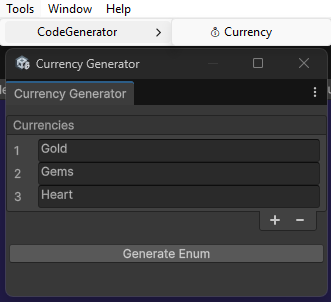
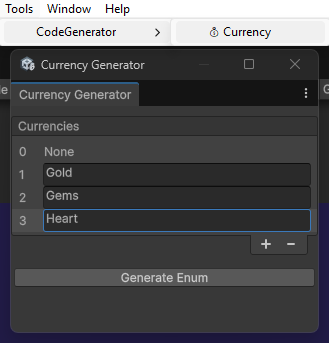
refactor: CurrencyEnumGeneratorWindow

Changed region(s): [[0.0, 0.0, 1.0, 0.9834]]

diff --git a/src/ModularGameFeatures/Assets/Modules/Features/Currency/Bank/Scripts/Editor/CurrencyEnumGeneratorWindow.cs b/src/ModularGameFeatures/Assets/Modules/Features/Currency/Bank/Scripts/Editor/CurrencyEnumGeneratorWindow.cs
@@ -1,28 +1,37 @@
+using System;
 using System.Collections.Generic;
 using System.IO;
 using System.Linq;
-using System.Text.RegularExpressions;
+using Modules.Features.Currency.Bank.Scripts;
 using UnityEditor;
 using UnityEditorInternal;
 using UnityEngine;
 
 public class CurrencyEnumGeneratorWindow : EditorWindow
 {
-    private const string PATH = "Assets/Modules/Features/Currency/Bank/Scripts/CurrencyType.cs";
-
-    private List<string> currencies = new();
+    private List<string> currencies;
     private ReorderableList list;
 
     [MenuItem("Tools/CodeGenerator/💰 Currency")]
-    public static void Open()
-    {
-        GetWindow<CurrencyEnumGeneratorWindow>("Currency Generator");
-    }
+    public static void Open() => GetWindow<CurrencyEnumGeneratorWindow>("Currency Generator");
 
     private void OnEnable()
     {
-        LoadExistingCurrencies();
+        LoadCurrenciesFromEnum();
         SetupList();
+    }
+
+    private void LoadCurrenciesFromEnum()
+    {
+        currencies = Enum.GetNames(typeof(CurrencyType)).ToList();
+
+        if (!currencies.Contains("None"))
+            currencies.Insert(0, "None");
+        else if (currencies.IndexOf("None") != 0)
+        {
+            currencies.Remove("None");
+            currencies.Insert(0, "None");
+        }
     }
 
     private void SetupList()
@@ -37,29 +46,32 @@ public class CurrencyEnumGeneratorWindow : EditorWindow
         list.drawElementCallback = (rect, index, active, focused) =>
         {
             Rect numberRect = new Rect(rect.x, rect.y, 25, rect.height);
-            EditorGUI.LabelField(numberRect, (index + 1).ToString());
+            EditorGUI.LabelField(numberRect, index.ToString()); // ID с None = 0
 
             Rect textRect = new Rect(rect.x + 25, rect.y, rect.width - 25, rect.height);
-            currencies[index] = EditorGUI.TextField(textRect, currencies[index]);
+
+            if (index == 0)
+                EditorGUI.LabelField(textRect, currencies[index]); // None нельзя редактировать
+            else
+                currencies[index] = EditorGUI.TextField(textRect, currencies[index]);
+        };
+
+        list.onRemoveCallback = l =>
+        {
+            if (l.index == 0) return; // нельзя удалить None
+            currencies.RemoveAt(l.index);
         };
 
         list.onAddCallback = l =>
         {
             currencies.Add("NewCurrency");
         };
-
-        list.onRemoveCallback = l =>
-        {
-            currencies.RemoveAt(l.index);
-        };
     }
 
     private void OnGUI()
     {
         GUILayout.Space(10);
-
         list.DoLayoutList();
-
         GUILayout.Space(10);
 
         if (GUILayout.Button("Generate Enum"))
@@ -68,38 +80,24 @@ public class CurrencyEnumGeneratorWindow : EditorWindow
         }
     }
 
-    private void LoadExistingCurrencies()
-    {
-        currencies.Clear();
-
-        if (!File.Exists(PATH))
-            return;
-
-        var lines = File.ReadAllLines(PATH);
-
-        var values = lines
-            .Select(l => l.Trim())
-            .Where(l => l.Contains("=") && !l.Contains("None"))
-            .Select(l => Regex.Match(l, @"^\w+").Value)
-            .Where(v => !string.IsNullOrEmpty(v));
-
-        currencies = values.ToList();
-    }
-
     private void GenerateEnum()
     {
-        currencies = currencies
+        var uniqueCurrencies = currencies
             .Where(x => !string.IsNullOrWhiteSpace(x))
             .Distinct()
             .ToList();
 
-        Directory.CreateDirectory(Path.GetDirectoryName(PATH));
+        string currentDir = Path.GetDirectoryName(AssetDatabase.GetAssetPath(MonoScript.FromScriptableObject(this)));
+        string parentDir = Path.Combine(currentDir, "..");
+        string targetPath = Path.Combine(parentDir, "CurrencyType.cs");
+        targetPath = Path.GetFullPath(targetPath).Replace("\\", "/");
+
+        Directory.CreateDirectory(parentDir);
 
         string enumValues = "";
-
-        for (int i = 0; i < currencies.Count; i++)
+        for (int i = 1; i < uniqueCurrencies.Count; i++)
         {
-            enumValues += $"        {currencies[i]} = {i + 1},\n";
+            enumValues += $"        {uniqueCurrencies[i]} = {i},\n";
         }
 
         string code =
@@ -111,10 +109,9 @@ $@"namespace Modules.Features.Currency.Bank.Scripts
 {enumValues}    }}
 }}";
 
-        File.WriteAllText(PATH, code);
-
+        File.WriteAllText(targetPath, code);
         AssetDatabase.Refresh();
 
-        Debug.Log("CurrencyType enum generated!");
+        Debug.Log("<color=green>CurrencyType enum generated!</color>");
     }
 }
